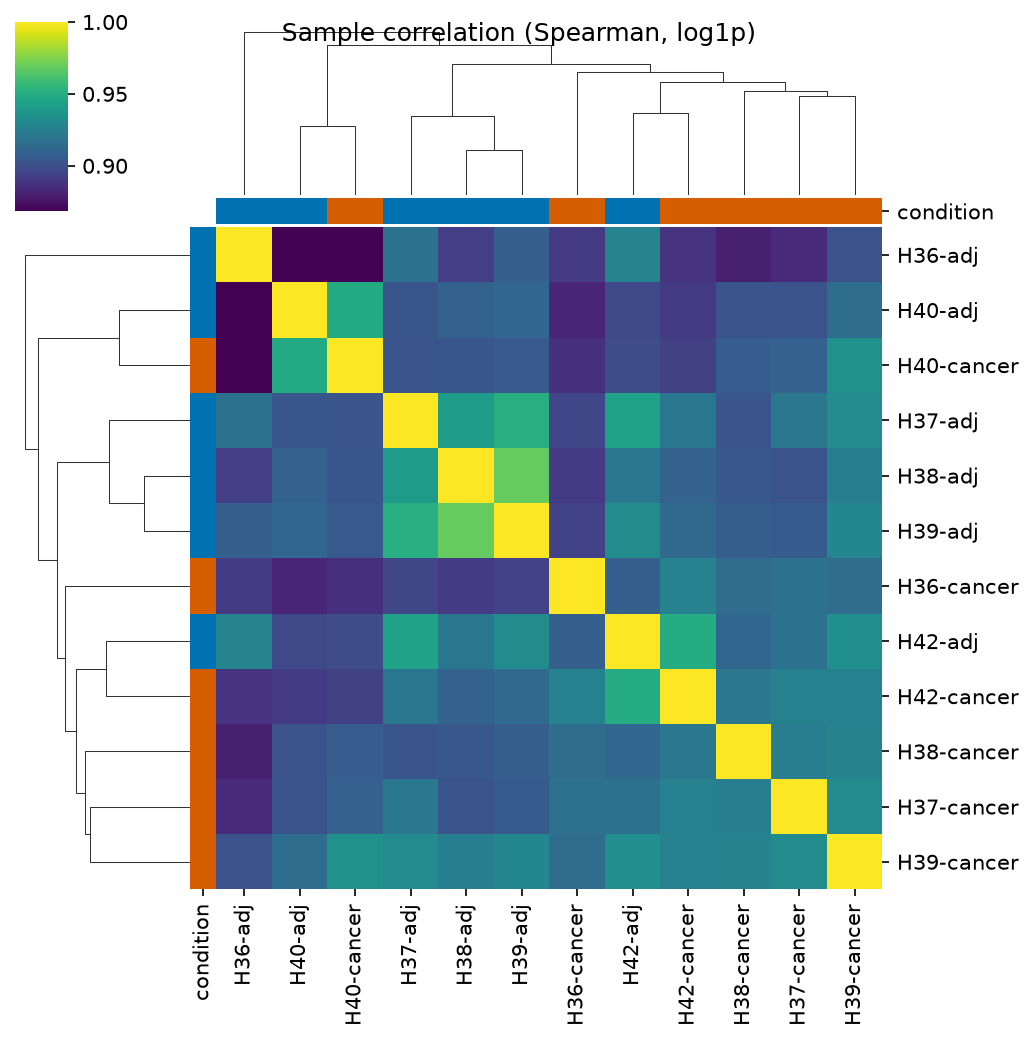
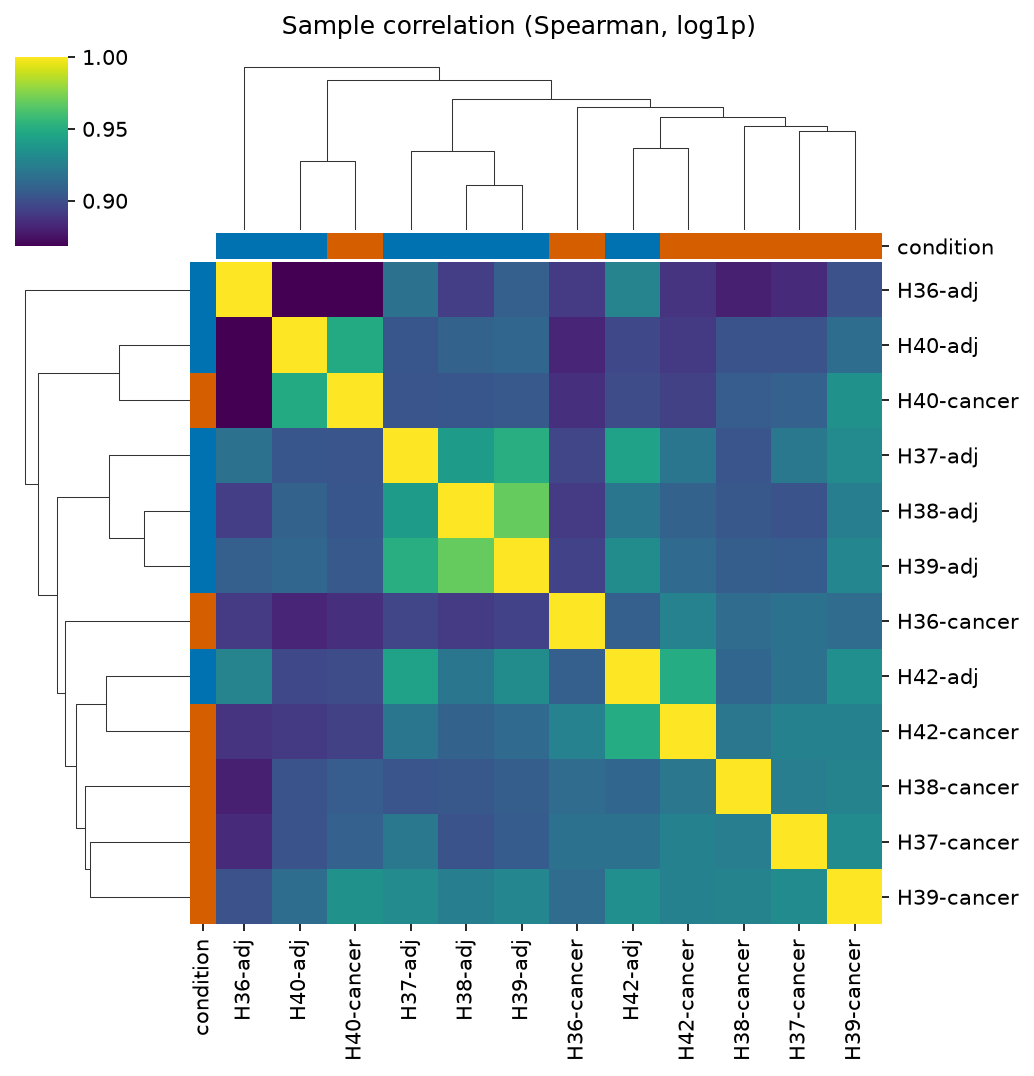
fix: QC plot title spacing; record QC observations

diff --git a/src/s02_qc.py b/src/s02_qc.py
@@ -58,7 +58,7 @@ def run_qc(counts: pd.DataFrame, meta: pd.DataFrame, results_dir: Path = RESULTS
     corr = np.log1p(filtered).T.corr(method="spearman")
     g = sns.clustermap(corr, cmap="viridis", figsize=(7, 7),
                        row_colors=cond.map(COLORS), col_colors=cond.map(COLORS))
-    g.fig.suptitle("Sample correlation (Spearman, log1p)")
+    g.fig.suptitle("Sample correlation (Spearman, log1p)", y=1.02)
     g.savefig(results_dir / "qc_correlation.png", dpi=150)
     plt.close(g.fig)
     return filtered

diff --git a/data/DATASET.md b/data/DATASET.md
@@ -18,5 +18,10 @@
 - 61,155 gene rows. The loader drops 2 rows with no values (`MUC20-OT1`, `ANK2`) and merges 2 duplicate gene rows by summing, leaving 61,151 genes.
 - Sample labels come from the GEO sample titles and are stored in `data/metadata.csv` (columns `sample, condition, patient`).
 
+## QC observations (from `results/qc_*`)
+- No library-size outliers (smallest is about 17.4 M reads, largest about 26.5 M).
+- PCA silhouette for tumor vs normal is 0.326: the groups separate mostly along PC1.
+- Patient H40's tumor and adjacent-normal samples sit close together in the PCA and cluster together in the correlation heatmap. This may mean low tumor purity or contamination in H40. It is a caveat for the report; the paired design handles patient effects.
+
 ## Sample removals
-None so far.
+None. No sample was removed.
